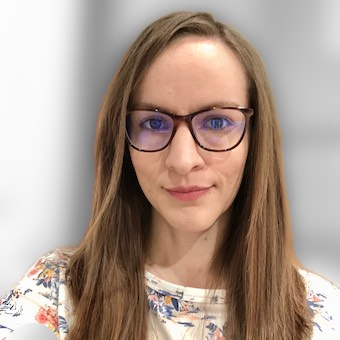
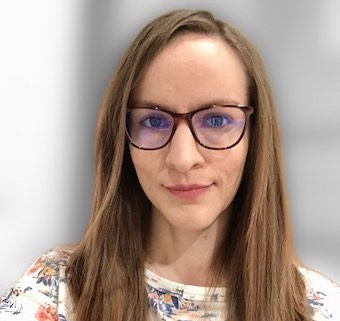
updated home page

diff --git a/src/components/About/About.jsx b/src/components/About/About.jsx
@@ -3,6 +3,7 @@ import Avatar from '@material-ui/core/Avatar';
 import Box from '@material-ui/core/Box';
 import profile from '../Home/profile.jpg';
 import Typography from '@material-ui/core/Typography';
+import Button from '@material-ui/core/Button';
 
 const Cell = ({ children }) => (
   <Box m={6} mx={40} fontSize={18}>
@@ -20,8 +21,8 @@ const About = () => {
           alt='Profile'
           src={profile}
           style={{
-            width: imageSize,
-            height: imageSize,
+            width: '300px',
+            height: '300px',
             marginLeft: 'auto',
             marginRight: 'auto',
           }}
@@ -29,7 +30,7 @@ const About = () => {
       </Cell>
 
       <Cell>
-        <Typography variant='subtitle1' component='h1'>
+        <Typography color='secondary' variant='subtitle1' component='h1'>
           Hello!
         </Typography>
 
@@ -38,108 +39,9 @@ const About = () => {
           background in animal care, having worked and volunteered at animal
           shelters in the Seattle area.
         </Typography>
-
-        <Typography paragraph={true} gutterBottom={true}>
-          I decided it was time for a change in my life and found myself drawn
-          to software development because of the satisfaction I get from solving
-          challenging problems and the great potential of learning that it
-          offers.
-        </Typography>
-
-        <Typography paragraph={true} gutterBottom={true}>
-          In my work at the animal shelter I had the opportunity to work on a
-          team and enjoyed the experience of learning from my coworkers and
-          sharing my knowledge with them. I look forward to working with a
-          company where I can solve challenging problems and to continue working
-          in a collaborative team environment.{' '}
-        </Typography>
-
-        <Typography paragraph={true} gutterBottom={true}>
-          <strong>Languages:</strong> JavaScript, TypeScript CSS, HTML5
-        </Typography>
-
-        <Typography paragraph={true} gutterBottom={true}>
-          <strong>Technologies:</strong> React, Redux, Git, GitHub, MongoDB,
-          Mongoose, Express, Node, VSCode, Material UI
-        </Typography>
-      </Cell>
-
-      <Cell>
-        <Typography variant='subtitle2' component='h2'>
-          Experience
-        </Typography>
-
-        <Typography paragraph={true} gutterBottom={true}>
-          <strong>Code Fellows | Teaching Assistant | Seattle, WA</strong>
-        </Typography>
-        <Typography paragraph={true} gutterBottom={true}>
-          May 2020 - October 2020
-        </Typography>
-        <Typography paragraph={true} gutterBottom={true}>
-          Code reviewing of student Javascript homework submissions for grading
-          purposes. Mentoring students on good coding practices and problem
-          solving abilities.
-        </Typography>
-
-        <Typography paragraph={true} gutterBottom={true}>
-          <strong>MEOW Cat Rescue | Shelter Caregiver | Kirkland, WA</strong>
-        </Typography>
-
-        <Typography paragraph={true} gutterBottom={true}>
-          October 2015 - July 2019
-        </Typography>
-        <Typography paragraph={true} gutterBottom={true}>
-          Communicated changes seen in animals to management and co-workers
-          daily. Contributed to the development of an emergency response plan in
-          the event of a medical emergency with a cat. Worked as a team to
-          provide care to all cats within the shelter including administering
-          medications. Trained new employees and volunteers to the standard
-          required by the shelter.
-        </Typography>
-        <Typography paragraph={true} gutterBottom={true}>
-          <strong>
-            Seattle Animal Shelter | Cat Team Volunteer | Seattle, WA
-          </strong>
-        </Typography>
-        <Typography paragraph={true} gutterBottom={true}>
-          2013 - 2015
-        </Typography>
-        <Typography paragraph={true} gutterBottom={true}>
-          Worked with clients to guide them through the adoption process.
-          Communicated with the volunteer team to ensure all cats were cared
-          for.
-        </Typography>
-        <Typography paragraph={true} gutterBottom={true}>
-          <strong>
-            Elements Therapeutic Massage | Massage Therapist | Seattle, WA
-          </strong>
-        </Typography>
-        <Typography paragraph={true} gutterBottom={true}>
-          2010 - 2011
-        </Typography>
-        <Typography paragraph={true} gutterBottom={true}>
-          Worked with clients to develop a customized therapeutic plan. Recorded
-          accurate documentation to fit the standard required for billing
-          insurance.
-        </Typography>
-      </Cell>
-
-      <Cell>
-        <Typography variant='subtitle2' component='h2'>
-          Education
-        </Typography>
-        <Typography paragraph={true} gutterBottom={true}>
-          <strong>Code Fellows | Seattle, WA | April 2020</strong>
-        </Typography>
-        <Typography paragraph={true} gutterBottom={true}>
-          Certificate - Advanced Software Development in Full-Stack JavaScript
-        </Typography>
-        <Typography paragraph={true} gutterBottom={true}>
-          <strong>Bellevue College | Bellevue, WA | 2014</strong>
-        </Typography>
-        <Typography paragraph={true} gutterBottom={true}>
-          Associate of Arts and Sciences
-        </Typography>
+        <Button variant='contained' color='secondary'>
+          Resume
+        </Button>
       </Cell>
     </>
   );

diff --git a/src/components/NavBar/NavBar.jsx b/src/components/NavBar/NavBar.jsx
@@ -10,31 +10,45 @@ const NavBar = () => {
     <>
       <AppBar position='static' color='primary'>
         <Box
-          bgcolor='#FAE9F9'
+          bgcolor='#edf6f9'
           display='flex'
           flexDirection='row'
           justifyContent='space-between'
           pt={1}
         >
-          <Typography variant='h4' component='h1'>
-            <Link component={ReactRouterLink} to='/' underline='hover'>
-              <Box fontFamily='Quattrocento' mx={2}>
-                Susanna
+          <Typography variant='h6' component='h1'>
+            <Link
+              color='secondary'
+              component={ReactRouterLink}
+              to='/'
+              underline='none'
+            >
+              <Box
+                display='flex'
+                justifyContent='center'
+                alignItems='center'
+                style={{
+                  border: '4px solid #5e6472 ',
+                  borderRadius: '50%',
+                  padding: '0.2em',
+                  width: '70px',
+                  height: '70px',
+                }}
+                mx={2}
+                mb={1}
+              >
+                sl
               </Box>
             </Link>
           </Typography>
           <Box display='flex' alignItems='flex-end'>
             <Typography variant='h5' component='h2'>
-              <Link component={ReactRouterLink} to='/about' underline='hover'>
+              <Link component={ReactRouterLink} to='/about' underline='none'>
                 <Box display='inline' fontFamily='Quattrocento' mx={1}>
                   About
                 </Box>
               </Link>
-              <Link
-                component={ReactRouterLink}
-                to='/projects'
-                underline='hover'
-              >
+              <Link component={ReactRouterLink} to='/projects' underline='none'>
                 <Box display='inline' fontFamily='Quattrocento' mx={2}>
                   Projects
                 </Box>

diff --git a/src/components/Home/Home.jsx b/src/components/Home/Home.jsx
@@ -21,24 +21,26 @@ const Home = () => (
         }}
       />
     </Box>
-    <Typography variant='subtitle1' component='h2'>
-      <Box fontSize='3rem'>Susanna Lakey</Box>
-    </Typography>
-    <Typography variant='subtitle2' component='h2'>
-      <Box fontSize='1.5rem'>Frontend Software Developer</Box>
-    </Typography>
-    <Box display='flex' mt={2}>
-      <Box display='inline' my={1} mx={4}>
+    <Box m={2}>
+      <Typography color='secondary' variant='h3' component='h2'>
+        <Box>Susanna Lakey</Box>
+      </Typography>
+      <Typography color='error' variant='subtitle2' component='h2'>
+        <Box>Frontend Software Developer</Box>
+      </Typography>
+    </Box>
+    <Box justifyContent='center' display='flex' s>
+      <Box display='inline' my={1} mx={6}>
         <Link href='https://www.linkedin.com/in/susanna-lakey/'>
           <LinkedInIcon />
         </Link>
       </Box>
-      <Box display='inline' my={1} mx={4}>
+      <Box display='inline' my={1} mx={6}>
         <Link href='https://github.com/slakeyj'>
           <GitHubIcon />
         </Link>
       </Box>
-      <Box display='inline' my={1} mx={4}>
+      <Box display='inline' my={1} mx={6}>
         <Link href='https://twitter.com/susannalakey'>
           <TwitterIcon />
         </Link>

diff --git a/src/theme.js b/src/theme.js
@@ -5,6 +5,12 @@ const theme = createMuiTheme({
     primary: {
       main: '#333',
     },
+    secondary: {
+      main: '#468faf',
+    },
+    error: {
+      main: '#5e6472',
+    },
   },
   typography: {
     fontFamily: 'Arial',
@@ -13,9 +19,18 @@ const theme = createMuiTheme({
       fontSize: '4rem',
     },
     subtitle2: {
-      fontFamily: 'Old Standard TT, serif',
+      fontFamily: 'Merriweather Sans, sans-serif',
       fontSize: '2rem',
       fontWeight: 600,
+      letterSpacing: '2px',
+    },
+    h3: {
+      fontFamily: 'Satisfy, cursive',
+      fontSize: '5.5rem',
+    },
+    h6: {
+      fontFamily: 'Bowlby One SC, cursive',
+      fontSize: '2.7em',
     },
   },
   props: {

diff --git a/src/index.css b/src/index.css
@@ -1,6 +1,8 @@
 @import url('https://fonts.googleapis.com/css2?family=Quattrocento&display=swap');
 @import url('https://fonts.googleapis.com/css2?family=Satisfy&display=swap');
+@import url('https://fonts.googleapis.com/css2?family=Merriweather+Sans:ital,wght@1,800&display=swap');
 @import url('https://fonts.googleapis.com/css2?family=Old+Standard+TT:ital@1&display=swap');
+@import url('https://fonts.googleapis.com/css2?family=Bowlby+One+SC&display=swap');
 
 body {
   margin: 0;

diff --git a/src/components/Projects/Projects.jsx b/src/components/Projects/Projects.jsx
@@ -13,7 +13,9 @@ const Projects = () => {
     <>
       <Grid container justify='center'>
         <Grid item>
-          <Typography variant='subtitle1'>Projects</Typography>
+          <Typography color='secondary' variant='subtitle1'>
+            Projects
+          </Typography>
         </Grid>
       </Grid>
       <Grid container direction='row' spacing={8} justify='center'>
